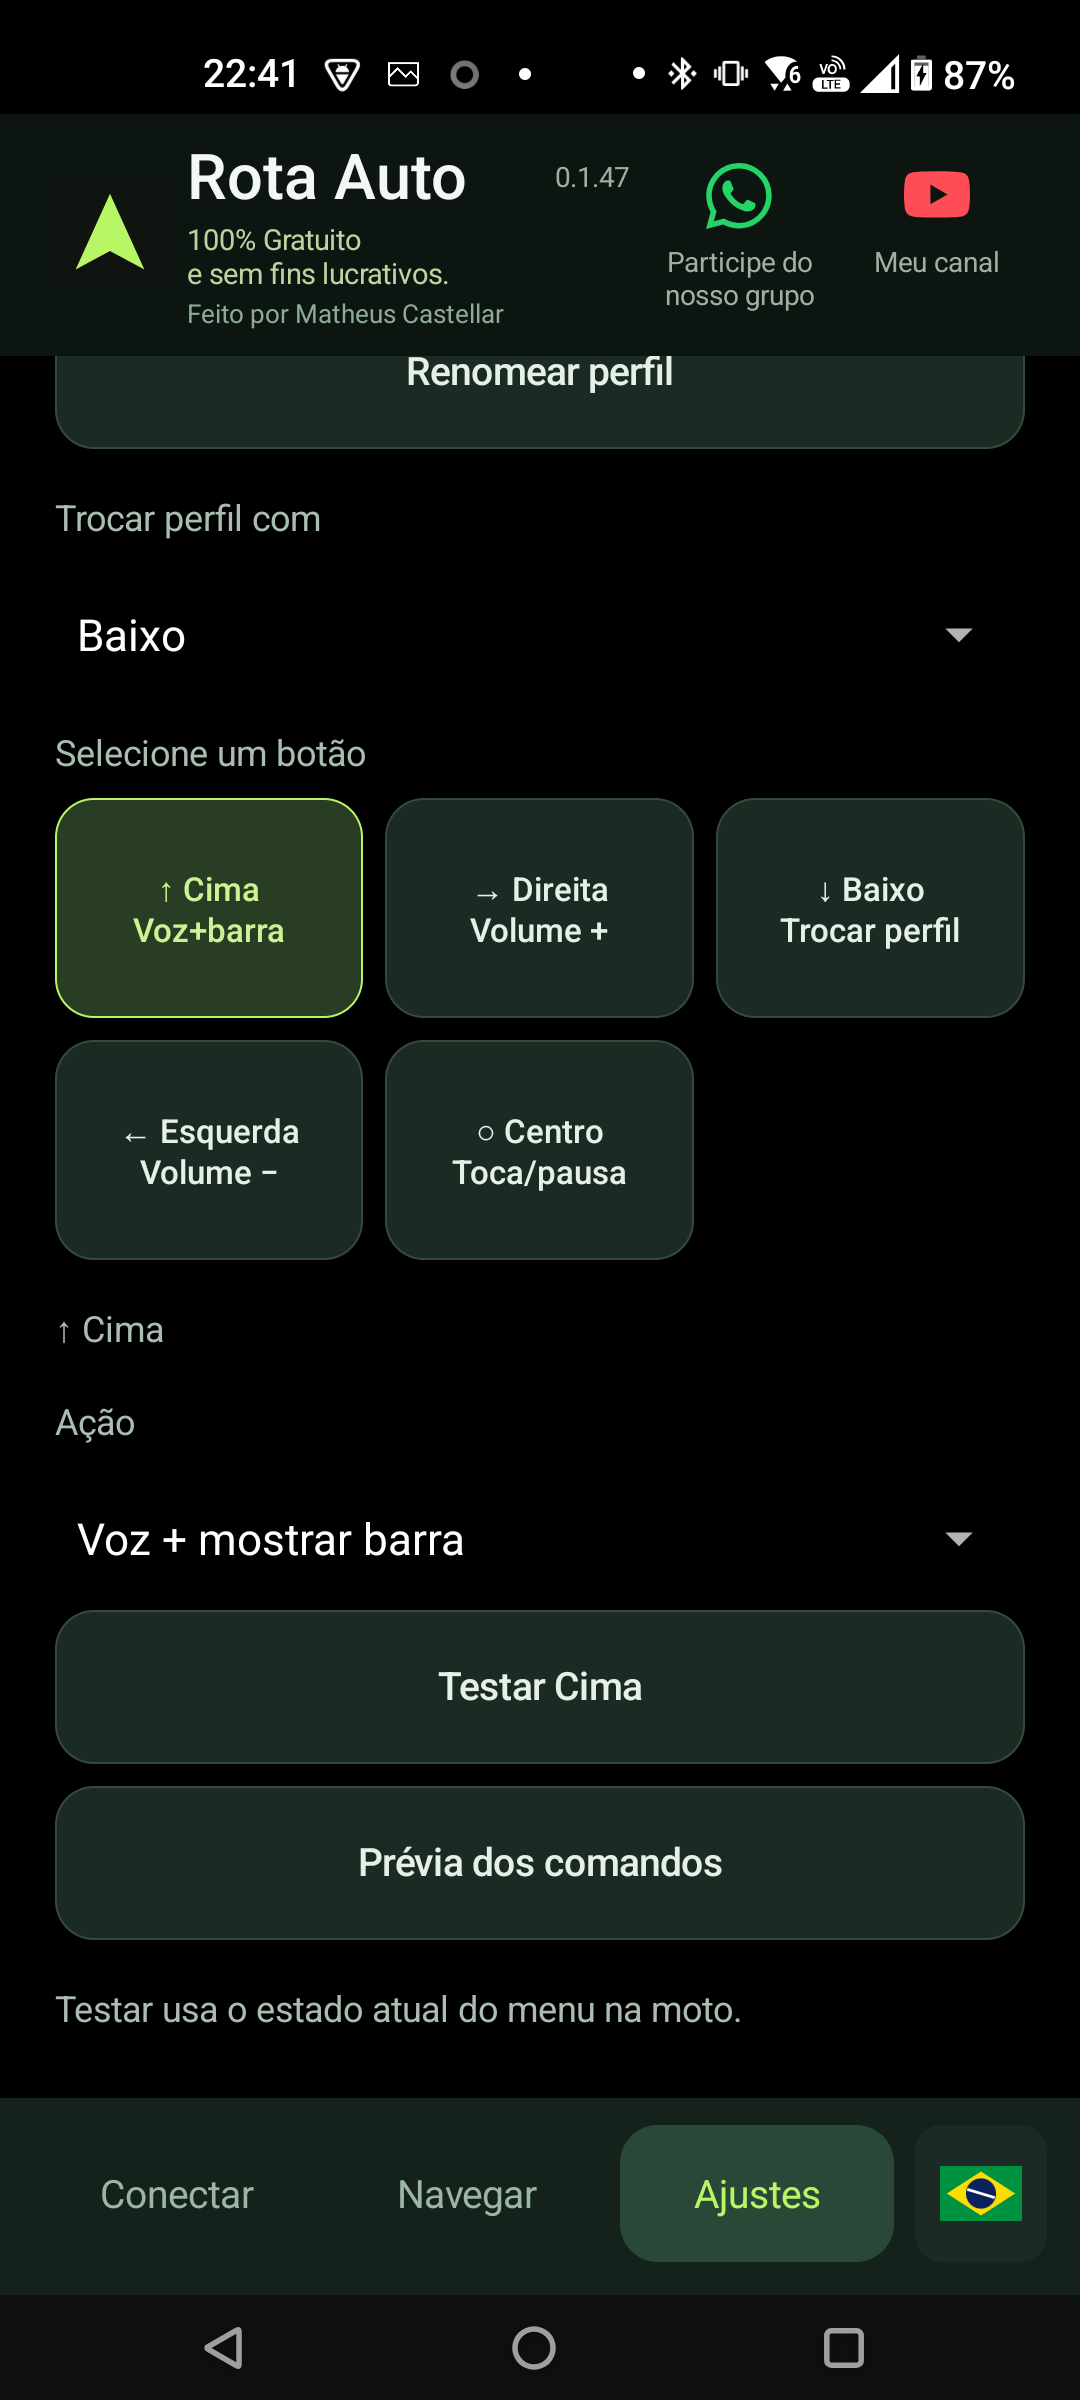
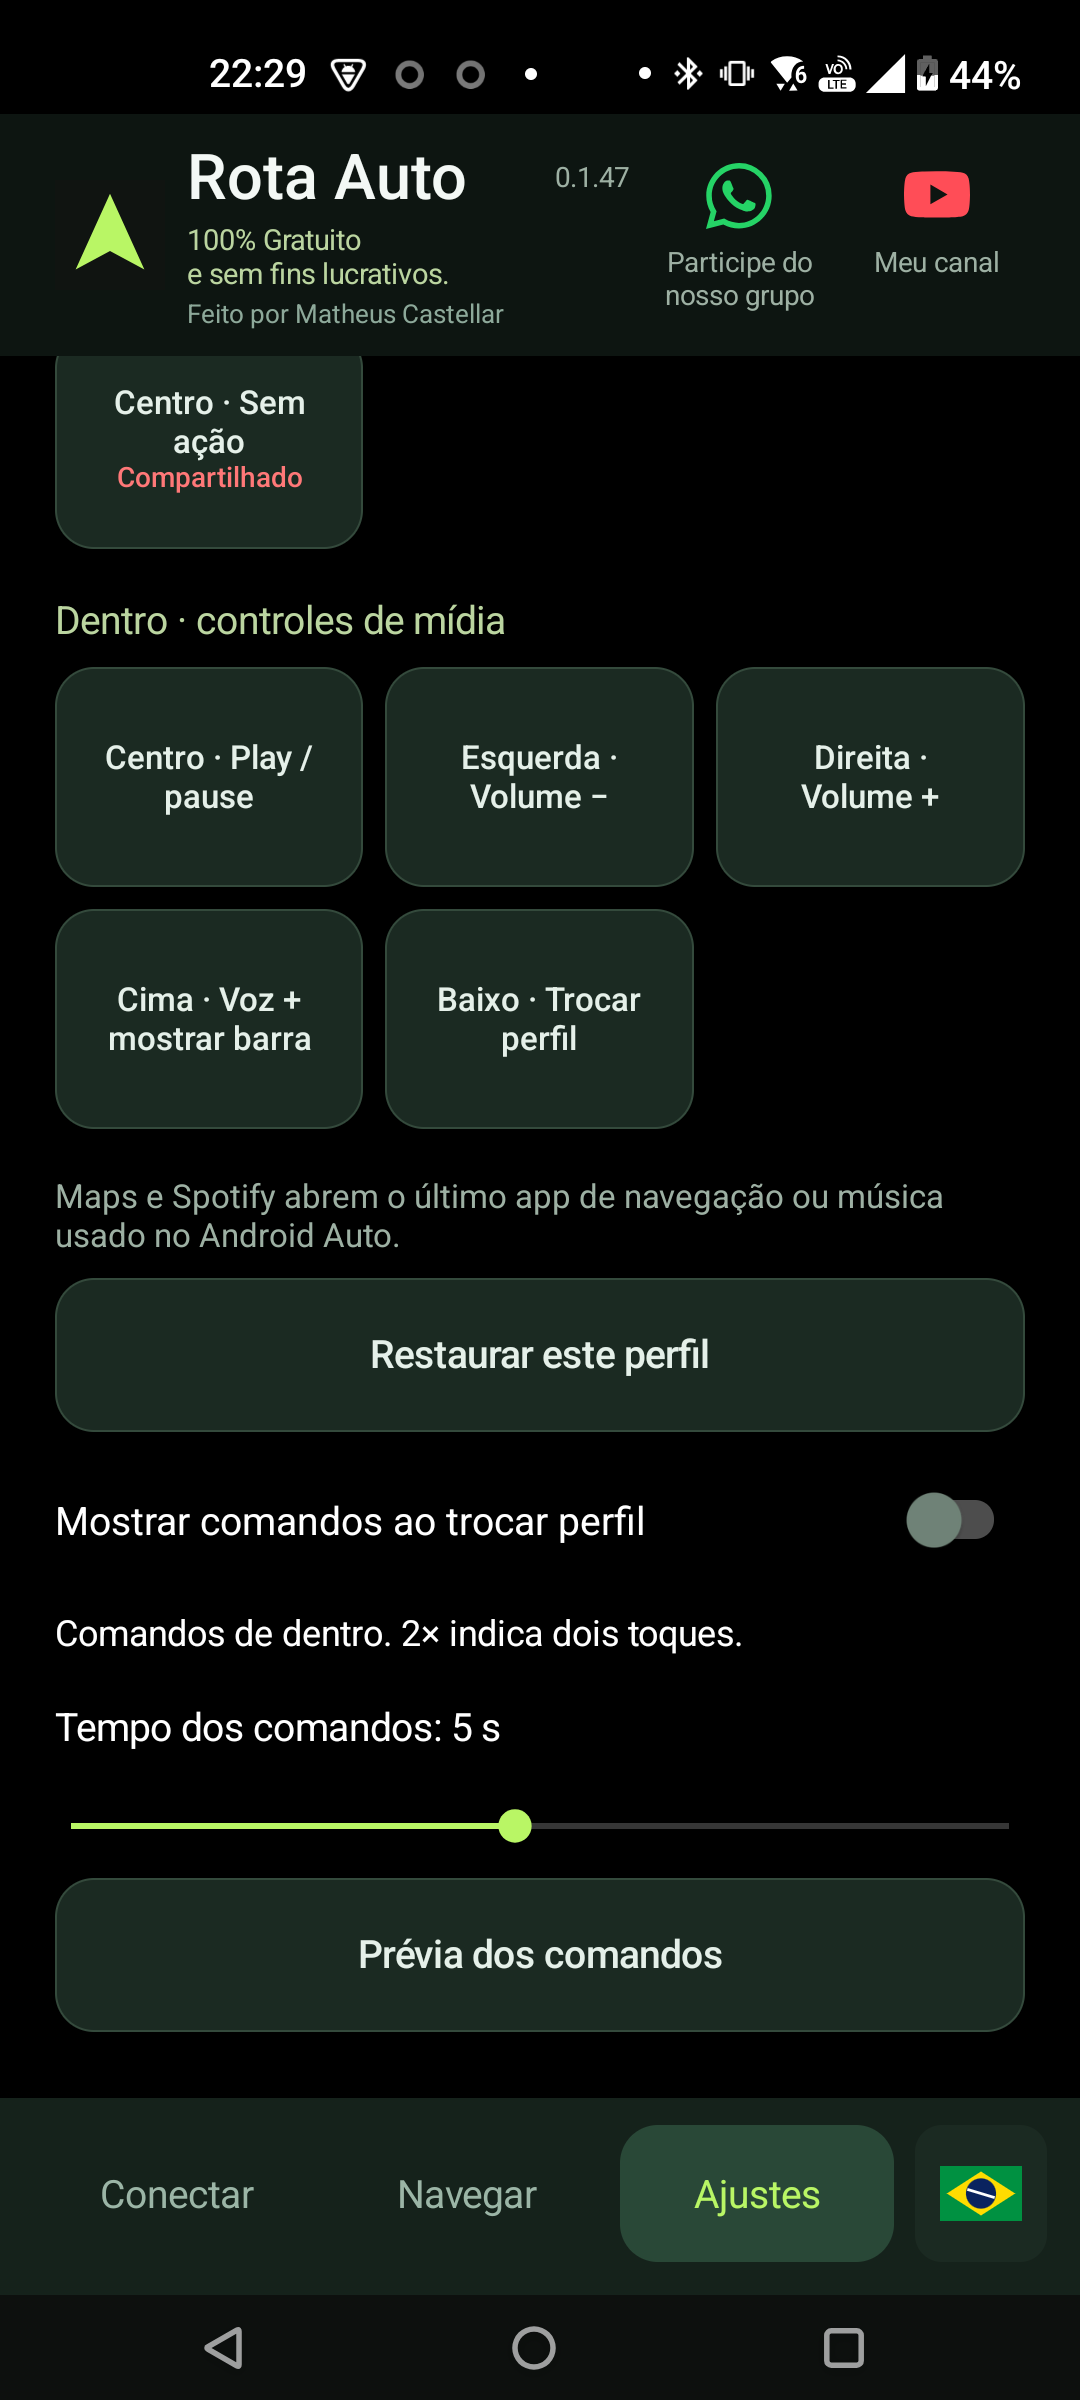
Refresh Portuguese gallery from device and highlight four interface languages

diff --git a/README.pt-BR.md b/README.pt-BR.md
@@ -10,6 +10,14 @@ Feito por **Matheus Castellar**. Projeto gratuito, da comunidade e sem fins lucr
 
 O Rota Auto recebe o vídeo do Android Auto no celular e o transmite pela rede Wi-Fi da moto para o Tripper Dash. Mapas e aplicativos de mídia compatíveis funcionam pelo Android Auto; o Rota Auto cuida da conexão, da adaptação da imagem e dos comandos da moto. Este é o projeto principal com Android Auto, não um aplicativo independente do SDK do Google Maps.
 
+## Disponível em quatro idiomas
+
+**🇧🇷 Português (Brasil) · 🇺🇸 🇬🇧 English · 🇪🇸 Español · 🇮🇳 हिन्दी (Hindi)**
+
+Escolha o idioma do aplicativo pelo **botão de bandeira ao lado de Ajustes**. A documentação do projeto está disponível em português e inglês.
+
+<a href="docs/images/app-languages.png"><img src="docs/images/app-languages.png" width="260" alt="Seletor de idiomas do Rota Auto: português brasileiro, inglês, espanhol e hindi"></a>
+
 ## Na moto
 
 Fotos reais do Rota Auto funcionando em uma Guerrilla 450. A **logo Guerrilla, o widget de informações e o enquadramento são personalizações opcionais**, não a aparência padrão.
@@ -24,18 +32,46 @@ Fotos reais do Rota Auto funcionando em uma Guerrilla 450. A **logo Guerrilla, o
 
 ## No aplicativo
 
-Capturas da versão 0.1.47. Toque em uma imagem para ampliar. As ações dos botões são exemplos que podem ser personalizados.
+Capturas novas, feitas diretamente no celular em **17/11/2026**, com a versão **0.1.47**. Toque nas imagens para ampliar. As ações e os valores exibidos são exemplos personalizáveis, não os padrões de fábrica.
 
 <table>
-  <tr><th>Conectar</th><th>Ajustes do menu</th><th>Comandos personalizados</th></tr>
+  <tr><th>Conectar</th><th>Perfis e modos de controle</th><th>Comandos personalizados</th></tr>
   <tr>
-    <td><a href="docs/images/app-connect.png"><img src="docs/images/app-connect.png" width="240" alt="Tela de conexão do Rota Auto"></a></td>
-    <td><a href="docs/images/app-menu-settings.png"><img src="docs/images/app-menu-settings.png" width="240" alt="Modo menu e ajuste do tempo de exibição"></a></td>
-    <td><a href="docs/images/app-controls.png"><img src="docs/images/app-controls.png" width="240" alt="Configuração das ações dos botões da moto"></a></td>
+    <td><a href="docs/images/app-connect.png"><img src="docs/images/app-connect.png" width="240" alt="Tela atual de conexão do Rota Auto"></a></td>
+    <td><a href="docs/images/app-menu-settings.png"><img src="docs/images/app-menu-settings.png" width="240" alt="Modo tradicional, modo menu e perfis renomeáveis"></a></td>
+    <td><a href="docs/images/app-controls.png"><img src="docs/images/app-controls.png" width="240" alt="Ações atuais dos botões e opções da prévia dos comandos"></a></td>
   </tr>
 </table>
 
+<details>
+<summary>Ver a prévia circular dos comandos</summary>
+
+<a href="docs/images/app-command-preview.png"><img src="docs/images/app-command-preview.png" width="280" alt="Prévia circular dos comandos do perfil selecionado"></a>
+
+</details>
+
+## Personalização do painel
+
+Ajuste enquadramento, distorção, tamanho e posição da imagem, logo da moto e widget de informações. Logo e widget são opcionais. Nestas capturas, a projeção está parada: a área de prévia aparece vazia, sem divulgar localização.
+
+<table>
+  <tr><th>Enquadramento e distorção</th><th>Logo da moto</th><th>Widget de informações</th></tr>
+  <tr>
+    <td><a href="docs/images/app-geometry.png"><img src="docs/images/app-geometry.png" width="240" alt="Ajustes de distorção, largura, altura e posição da imagem"></a></td>
+    <td><a href="docs/images/app-logo.png"><img src="docs/images/app-logo.png" width="240" alt="Seleção de logo Himalayan, Guerrilla, Bear ou nenhuma; tamanho e posição"></a></td>
+    <td><a href="docs/images/app-widget.png"><img src="docs/images/app-widget.png" width="240" alt="Widget opcional com formato linear ou quadrado e ajustes de tamanho e altura"></a></td>
+  </tr>
+</table>
+
+<details>
+<summary>Ver opções da barra e modos de imagem</summary>
+
+<a href="docs/images/app-customization.png"><img src="docs/images/app-customization.png" width="280" alt="Visibilidade da barra, tempo de exibição e modos de imagem"></a>
+
+</details>
+
 ## Recursos
+
 
 - Busca e reconexão ao Wi-Fi da moto, com prévia interativa no celular.
 - Ajustes de FPS, taxa de vídeo, enquadramento, barra de tarefas e simulador do painel.

diff --git a/README.md b/README.md
@@ -10,30 +10,13 @@ Created by **Matheus Castellar**. A free, community project developed for riders
 
 Rota Auto receives Android Auto video on the phone and streams it over the motorcycle's Wi-Fi connection to the Tripper Dash. Maps and compatible media apps run through Android Auto; Rota Auto handles the connection, display adaptation and motorcycle controls. This is the main Android Auto project, not a standalone Google Maps SDK app.
 
-## On the motorcycle
+## Available in four languages
 
-Real photos of Rota Auto running on a Guerrilla 450. The **Guerrilla logo, information widget and display layout are optional customizations**, not the default appearance.
+**🇧🇷 Português (Brasil) · 🇺🇸 🇬🇧 English · 🇪🇸 Español · 🇮🇳 हिन्दी (Hindi)**
 
-<table>
-  <tr><th>Spotify</th><th>Maps and music together</th></tr>
-  <tr>
-    <td><a href="docs/images/dashboard-spotify.jpg"><img src="docs/images/dashboard-spotify.jpg" height="360" alt="Spotify playing on the Tripper Dash, with an optional Guerrilla logo and information widget"></a></td>
-    <td><a href="docs/images/dashboard-maps-music.jpg"><img src="docs/images/dashboard-maps-music.jpg" height="360" alt="Android Auto split view with Google Maps and Spotify on the motorcycle"></a></td>
-  </tr>
-</table>
+Choose the interface language from the flag button beside Settings. The app includes a language selector; the project documentation is available in English and Portuguese.
 
-## In the app
-
-Screenshots of version 0.1.47. Tap an image to view it at full size. Button assignments shown here are customizable examples.
-
-<table>
-  <tr><th>Connect</th><th>Menu settings</th><th>Custom controls</th></tr>
-  <tr>
-    <td><a href="docs/images/app-connect.png"><img src="docs/images/app-connect.png" width="240" alt="Rota Auto connection screen"></a></td>
-    <td><a href="docs/images/app-menu-settings.png"><img src="docs/images/app-menu-settings.png" width="240" alt="Menu mode and timeout settings"></a></td>
-    <td><a href="docs/images/app-controls.png"><img src="docs/images/app-controls.png" width="240" alt="Customizable motorcycle button assignments"></a></td>
-  </tr>
-</table>
+[View current app screenshots and real dashboard photos in the Portuguese gallery](README.pt-BR.md#na-moto).
 
 ## Features
 
